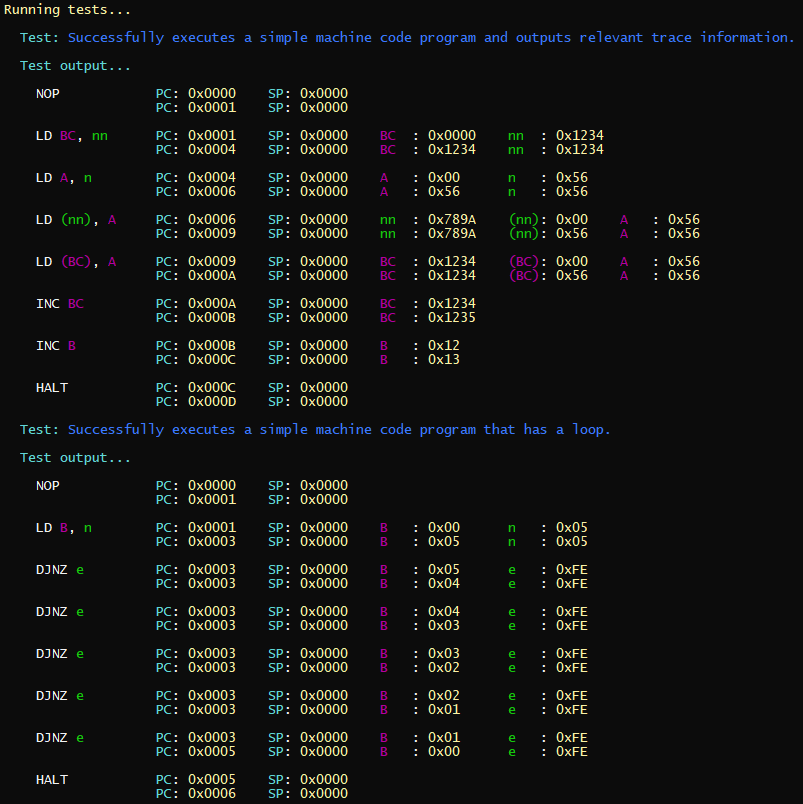
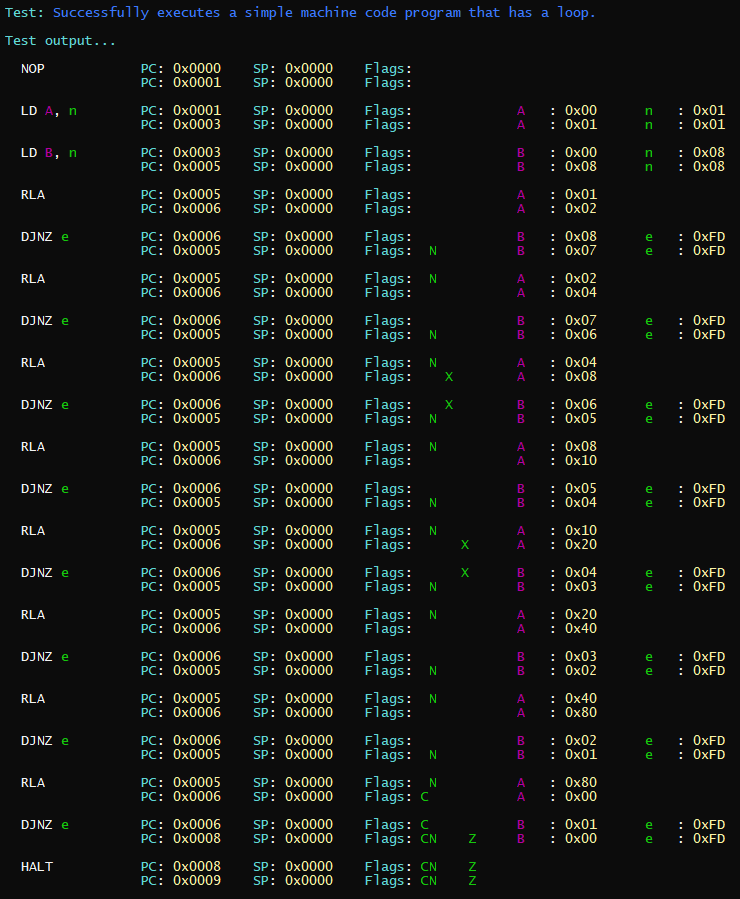
WIP

diff --git a/src/ZXE.Core.Tests.Console/Tests/ExecutesSimpleProgramWithLoop.cs b/src/ZXE.Core.Tests.Console/Tests/ExecutesSimpleProgramWithLoop.cs
@@ -29,25 +29,16 @@ public class ExecutesSimpleProgramWithLoop : ITest
         ram.Load(new byte[]
                  {
                      0x00,             // NOP
-                     0x06, 0x05,       // LD B, 5
-                     0x10, 0xFE,       // DJNZ -2
+                     0x3E, 0x01,       // LD A, 0x01
+                     0x06, 0x08,       // LD B, 8
+                     0x17,             // RLA
+                     0x10, 0xFD,       // DJNZ -3
                      0x76              // HALT
                  }, 0);
 
         while (! state.Halted)
         {
             processor.ProcessInstruction(ram);
-
-            //var trace = tracer.GetTrace();
-
-            //global::System.Console.Clear();
-
-            //foreach (var line in trace)
-            //{
-            //    FormattedConsole.WriteLine(line);
-
-            //    global::System.Console.ReadKey();
-            //}
         }
 
         return tracer.GetTrace();
